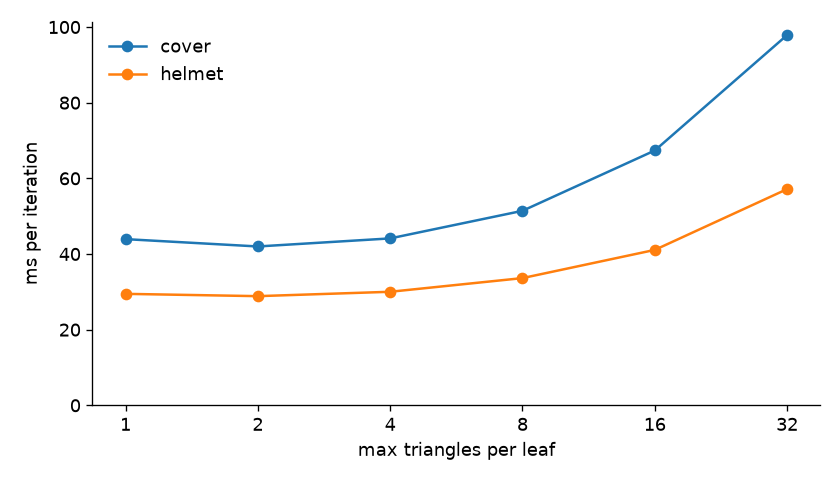
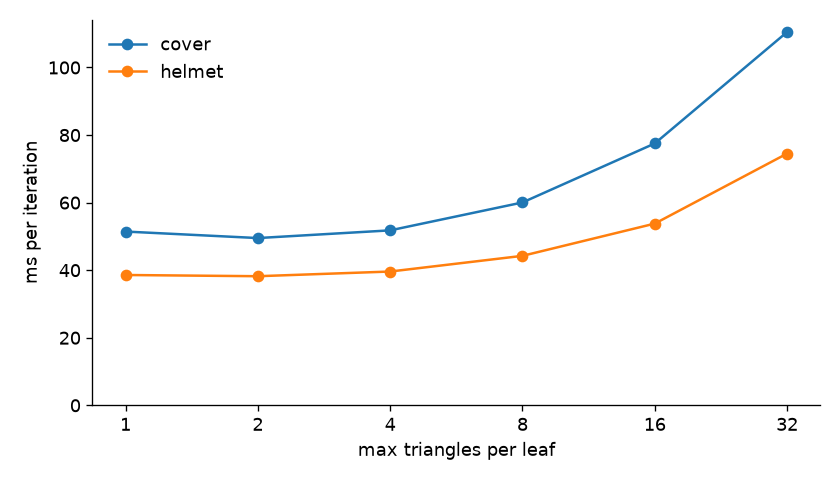
Added texture mapping analysis

diff --git a/README.md b/README.md
@@ -9,7 +9,7 @@ CUDA Path Tracer
 
 ![cover](img/cover.png)
 
-A glass Stanford dragon on a cloth backdrop, a gold glTF helmet, a mirror ball and a blue ball, with depth of field. 1280x720, 5000 samples per pixel, about 44 ms per sample on my laptop.
+A glass Stanford dragon on a checker cloth, a gold glTF helmet, a mirror ball and a blue ball, with depth of field. 1280x720, 5000 samples per pixel, about 52 ms per sample on my laptop.
 
 Features:
 
@@ -17,6 +17,7 @@ Features:
 * Refraction with Fresnel reflection (Schlick's approximation)
 * Depth of field with a thin lens
 * glTF loading with bounding box culling
+* Texture mapping and normal mapping from glTF files, and a procedural checker texture
 * Russian roulette
 * BVH built with binned SAH
 
@@ -32,7 +33,7 @@ Features:
 | `--no-compact`, `--sort`, `--no-cull`, `--no-rr`, `--no-bvh` | turn a feature off (or sorting on) |
 | `--leaf N` | max triangles in a BVH leaf (4 by default) |
 
-New things in the scene files: `"Refractive"` materials with an `"IOR"`, `"APERTURE"` (lens radius) and `"FOCUS"` in the camera, and `"TYPE": "mesh"` objects with a `"FILE"` (`.gltf` or `.glb`, relative to the scene file). A mesh without a `"MATERIAL"` uses its own glTF materials. I also fixed how the base code turns the camera from the scene file into angles, so cameras that look up or down work now.
+New things in the scene files: `"Refractive"` materials with an `"IOR"`, `"CHECKER"` (cells per unit) and `"RGB2"` for the procedural checker, `"APERTURE"` (lens radius) and `"FOCUS"` in the camera, and `"TYPE": "mesh"` objects with a `"FILE"` (`.gltf` or `.glb`, relative to the scene file). A mesh without a `"MATERIAL"` uses its own glTF materials. I also fixed how the base code turns the camera from the scene file into angles, so cameras that look up or down work now.
 
 ### Diffuse and Specular Shading
 
@@ -74,7 +75,13 @@ A pinhole camera makes everything sharp. With a thin lens only the points at the
 
 ![cornell_helmet](img/cornell_helmet.png)
 
-I use tinygltf to read `.gltf` and `.glb` files. The loader walks the node tree, multiplies the node transforms with the transform from the scene file, and stores every triangle in world space with its vertices and normals. A mesh object keeps its range in the triangle array and its bounding box. The ray-triangle test is Möller-Trumbore, which also gives the barycentric coordinates I use to interpolate the normals. With bounding box culling, a ray first tests the mesh box and skips all its triangles if it misses the box or the box is farther than the closest hit so far. Each glTF material becomes a diffuse material with its base color, and materials with the `KHR_materials_transmission` extension become my glass material, which is how the dragon on the cover gets its look. The helmet here uses its own material, which is white because I don't read its textures.
+I use tinygltf to read `.gltf` and `.glb` files. The loader walks the node tree, multiplies the node transforms with the transform from the scene file, and stores every triangle in world space with its vertices, normals and uvs. A mesh object keeps its range in the triangle array and its bounding box. The ray-triangle test is Möller-Trumbore, which also gives the barycentric coordinates I use to interpolate the normals. With bounding box culling, a ray first tests the mesh box and skips all its triangles if it misses the box or the box is farther than the closest hit so far. Each glTF material becomes a diffuse material with its base color, and materials with the `KHR_materials_transmission` extension become my glass material, which is how the dragon on the cover gets its look. In this image the scene file gives the helmet a white material.
+
+### Texture Mapping and Normal Mapping
+
+![cornell_textures](img/cornell_textures.png)
+
+The loader copies the base color and normal textures of the glTF materials into one big RGBA8 buffer on the GPU, and each texture keeps its size and offset in that buffer. The shading kernel samples them with bilinear filtering. For the normal map, I compute a tangent for every triangle from how the uvs change along its edges, build a tangent frame at the hit point, and turn the texel into a world space normal. The floor uses a procedural checker instead: the color depends on whether floor(x) + floor(y) + floor(z) of the hit point is even or odd, so it also works on spheres and cubes, which have no uvs. The cloth on the cover gets its checker pattern from its glTF texture.
 
 ### Russian Roulette
 
@@ -86,7 +93,7 @@ Testing every triangle is far too slow for the cover scene, which has 150k trian
 
 ### Performance Analysis
 
-All times are the average ms per iteration (one sample per pixel) of a Release build, from `--headless --spp 210`, which leaves out the first 10 iterations. I ran each setting 3 times and took the middle run. The 3 runs were within about 1% of each other, but the numbers are of course only for my laptop GPU. If I don't say otherwise, compaction, bounding box culling, Russian roulette and the BVH are on and sorting is off. The Cornell scenes and `cornell_helmet` are 800x800 with depth 8, and the cover is 1280x720 with depth 12. `cornell_closed` is the Cornell box with a fourth wall behind the camera, so no ray can leave.
+All times are the average ms per iteration (one sample per pixel) of a Release build, from `--headless --spp 210`, which leaves out the first 10 iterations. My laptop GPU changes its clock under long full load, so the same setting can be up to 20% faster or slower in another run. Because of that I ran the settings of each table in 3 rounds (every setting once per round) and took the middle run of each setting, so the numbers in one table were measured in the same state and can be compared. Inside a table the 3 runs were within about 1% of each other. If I don't say otherwise, compaction, bounding box culling, Russian roulette and the BVH are on and sorting is off. The Cornell scenes and `cornell_helmet` are 800x800 with depth 8, and the cover is 1280x720 with depth 12. `cornell_closed` is the Cornell box with a fourth wall behind the camera, so no ray can leave.
 
 ### Stream Compaction in One Iteration
 
@@ -98,10 +105,10 @@ This table shows the time per iteration in ms with and without compaction.
 
 | scene | compaction + RR | no compaction + RR | compaction, no RR | no compaction, no RR |
 | --- | --- | --- | --- | --- |
-| cornell (open) | 13.13 | 18.11 | 15.61 | 19.86 |
-| cornell_closed | 21.78 | 24.28 | 30.97 | 25.40 |
+| cornell (open) | 19.00 | 26.09 | 22.44 | 28.84 |
+| cornell_closed | 30.92 | 35.45 | 43.30 | 37.16 |
 
-In the open box compaction saves 28% with Russian roulette and 21% without. Without compaction a finished path still gets a thread at every bounce. The thread returns right away, but the live paths are spread over all the warps, so many more warps have to run. In the closed box without Russian roulette, compaction makes it 22% slower. Almost no path ends there, so `remove_if` reads and writes all 640k paths (44 bytes each) at every bounce and removes almost nothing. This is what I expected, because compaction only helps when paths end. With Russian roulette many closed-box paths end after bounce 3, and then compaction is 10% faster again.
+In the open box compaction saves 27% with Russian roulette and 22% without. Without compaction a finished path still gets a thread at every bounce. The thread returns right away, but the live paths are spread over all the warps, so many more warps have to run. In the closed box without Russian roulette, compaction makes it 17% slower. Almost no path ends there, so `remove_if` reads and writes all 640k paths (44 bytes each) at every bounce and removes almost nothing. This is what I expected, because compaction only helps when paths end. With Russian roulette many closed-box paths end after bounce 3, and then compaction is 13% faster again.
 
 ### Material Sorting
 
@@ -109,17 +116,17 @@ This table shows the time per iteration in ms with and without sorting by materi
 
 | scene | materials | no sorting | sorting |
 | --- | --- | --- | --- |
-| cornell | 5 | 13.24 | 30.76 |
-| cornell_glass | 7 | 14.53 | 32.67 |
-| cornell_helmet | 5 | 30.38 | 51.08 |
-| cover | 7 | 44.43 | 56.82 |
+| cornell | 5 | 19.02 | 45.67 |
+| cornell_glass | 7 | 20.68 | 48.65 |
+| cornell_helmet | 5 | 40.10 | 69.82 |
+| cover | 7 | 52.41 | 68.27 |
 
 ![sort_kernels](img/sort_kernels.png)
 
 This chart shows the GPU time of each step per iteration, measured with Nsight Systems.
 
 * **Sort the rays/path segments so that rays/paths interacting with the same material are contiguous in memory before shading. How does this impact performance? Why?**
-  * In my scenes sorting always makes it slower: the Cornell box goes from 13.2 to 30.8 ms, and the cover from 44.4 to 56.8 ms. The chart shows why. Shading does get about 8% faster with sorting (5.2 to 4.8 ms in the Cornell box), and in the helmet scene even the intersection gets 11% faster, because rays that hit the same material also hit the same object and walk the same part of the BVH. But the sort costs 16 to 19 ms per iteration: 8 radix sorts of up to 640k keys, plus moving the paths and intersections into the new order. My materials are small branches (diffuse, mirror and glass are a few lines each), so a warp with mixed materials doesn't lose much time to divergence. I think sorting would only pay off with many expensive materials, or with a cheaper sort, for example sorting only on some bounces or only on the few bits the material id needs.
+  * In my scenes sorting always makes it slower: the Cornell box goes from 19.0 to 45.7 ms, and the cover from 52.4 to 68.3 ms. The chart shows why. Shading does get about 10% faster with sorting (7.8 to 7.0 ms in the Cornell box), and in the helmet scene even the intersection gets 14% faster, because rays that hit the same material also hit the same object and walk the same part of the BVH. But the sort costs 26 to 32 ms per iteration: 8 radix sorts of up to 640k keys, plus moving the paths and intersections into the new order. My materials are small branches (diffuse, mirror and glass are a few lines each), so a warp with mixed materials doesn't lose much time to divergence. I think sorting would only pay off with many expensive materials, or with a cheaper sort, for example sorting only on some bounces or only on the few bits the material id needs.
 
 ### Passing Geometry by Reference
 
@@ -127,14 +134,14 @@ This table shows the time per iteration of the Cornell box before and after this
 
 | `Geom` passed to the intersection tests | ms per iteration |
 | --- | --- |
-| by value (base code) | 62.70 |
-| by const reference | 14.93 |
+| by value (base code) | 62.89 |
+| by const reference | 15.50 |
 
-The base code compiles every `.cu` file on its own (separable compilation), so `computeIntersections` in `pathtrace.cu` can't inline `boxIntersectionTest` from `intersections.cu` and really calls it. The base code passes the `Geom` by value, and a `Geom` holds three 4x4 matrices (more than 200 bytes), so every call first copies it into local memory. With 7 objects and up to 8 bounces, that is up to 56 copies per pixel per iteration. A const reference only passes a pointer, and this one-word change made the whole iteration 4.2× faster. `scatterRay` in `interactions.cu` is still a real call, and the shading kernel is now the biggest step in the Cornell box (5.2 ms of GPU time per iteration in the chart above), so moving it into a header where it can be inlined is probably the next easy speedup.
+The base code compiles every `.cu` file on its own (separable compilation), so `computeIntersections` in `pathtrace.cu` can't inline `boxIntersectionTest` from `intersections.cu` and really calls it. The base code passes the `Geom` by value, and a `Geom` holds three 4x4 matrices (more than 200 bytes), so every call first copies it into local memory. With 7 objects and up to 8 bounces, that is up to 56 copies per pixel per iteration. A const reference only passes a pointer, and this one-word change made the whole iteration 4.1× faster. `scatterRay` in `interactions.cu` is still a real call, and the shading kernel is now the biggest step in the Cornell box (7.8 ms of GPU time per iteration in the chart above), so moving it into a header where it can be inlined is probably the next easy speedup.
 
 ### Russian Roulette Speedup
 
-From the compaction table, Russian roulette makes the open box 16% faster (15.61 to 13.13 ms) and the closed box 30% faster (30.97 to 21.78 ms). It helps the closed box about twice as much, because there most paths would otherwise bounce all 8 times. The image converges to the same result, since the paths that survive are boosted by 1/q. Without compaction it helps much less (9% in the open box and 4% in the closed box), because a path stopped by Russian roulette still takes a slot in its warp until compaction removes it.
+From the compaction table, Russian roulette makes the open box 15% faster (22.44 to 19.00 ms) and the closed box 29% faster (43.30 to 30.92 ms). It helps the closed box about twice as much, because there most paths would otherwise bounce all 8 times. The image converges to the same result, since the paths that survive are boosted by 1/q. Without compaction it helps much less (10% in the open box and 5% in the closed box), because a path stopped by Russian roulette still takes a slot in its warp until compaction removes it.
 
 ### BVH vs Bounding Box Culling
 
@@ -142,20 +149,32 @@ This table shows the time per iteration in ms for the three ways to find the clo
 
 | scene | triangles | test all triangles | bounding box culling | BVH |
 | --- | --- | --- | --- | --- |
-| cornell_helmet | 15k | 1740 | 1419 | 30.4 |
-| cover | 150k | | 13486 | 43.9 |
+| cornell_helmet | 15k | 2014 | 1591 | 39.6 |
+| cover | 150k | | 14600 | 51.9 |
 
-The culling only helps rays that miss the whole mesh (18% for the helmet), and every ray that hits the box still tests all the triangles. With the BVH a ray tests a few boxes on each level and only the triangles in the leaves it reaches, so it is 47× faster than culling for the helmet and 307× for the cover. The cover has 10× more triangles than the helmet but is only 1.4× slower, and most of that is its larger image and deeper paths. I didn't run the cover without culling, since even with culling one iteration takes 13 seconds.
+The culling only helps rays that miss the whole mesh (21% for the helmet), and every ray that hits the box still tests all the triangles. With the BVH a ray tests a few boxes on each level and only the triangles in the leaves it reaches, so it is 40× faster than culling for the helmet and 281× for the cover. The cover has 10× more triangles than the helmet but is only 1.3× slower, and most of that is its larger image and deeper paths. I didn't run the cover without culling, since even with culling one iteration takes 15 seconds.
 
 ![bvh_leaf_size](img/bvh_leaf_size.png)
 
 This chart shows the time for different max leaf sizes. Leaves of 2 triangles are the fastest for both scenes, 4 is within about 5%, and bigger leaves get slow quickly, because the ray has to test every triangle in a leaf and a triangle test costs more than a box test. Leaves of 1 make the tree deeper, so each ray tests more boxes. I kept 4 as the default because it is almost as fast and has about half as many nodes as 2.
 
+### File Textures vs Procedural Texture
+
+This table shows the textured helmet scene with its glTF textures and with the procedural checker on the helmet.
+
+| helmet material | ms per iteration |
+| --- | --- |
+| glTF textures (base color and normal map) | 31.36 |
+| procedural checker | 30.81 |
+
+The file textures are only 2% slower. A texture lookup reads 4 texels for the bilinear filter, and the normal map needs a second lookup and the tangent of the triangle, while the checker only needs a few `floor()` calls. But only the rays that hit the helmet pay for this, and the time is mostly spent finding intersections.
+
 ### GPU vs CPU and Next Steps
 
 * **Antialiasing and depth of field** only add a few random numbers and a little math per camera ray, too little to measure. They fit the GPU well since every pixel does the same work. Stratified or low discrepancy samples would make the noise go away faster.
 * **Refraction** costs about as much as the other materials. On the GPU, glass, mirror and diffuse paths in the same warp run their branches one after another, which a CPU doesn't care about. A rough glass (microfacet) model would look more realistic.
-* **glTF loading** stores every triangle in world space with its normals (76 bytes). That is simple, but copies of the same mesh would use memory again; instancing with one transform per object would fix that.
+* **glTF loading** stores every triangle in world space with its normals, uvs and a tangent (116 bytes). That is simple, but copies of the same mesh would use memory again; instancing with one transform per object would fix that.
+* **Textures** live in one big buffer, and I filter them by hand. CUDA texture objects would do the bilinear filter in hardware and use the texture cache.
 * **Russian roulette** saves the same work on a CPU, but on the GPU most of the gain only comes together with compaction (see above).
 * **The BVH** is the feature where the GPU has the hardest time. Rays in the same warp walk different parts of the tree and the stack lives in local memory, while a CPU core walks a tree with recursion and big caches. The GPU still wins by running thousands of rays at once. A BVH with 4 children per node and smaller nodes would read less memory per ray, and building the tree on the GPU would make loading big scenes faster.
 
